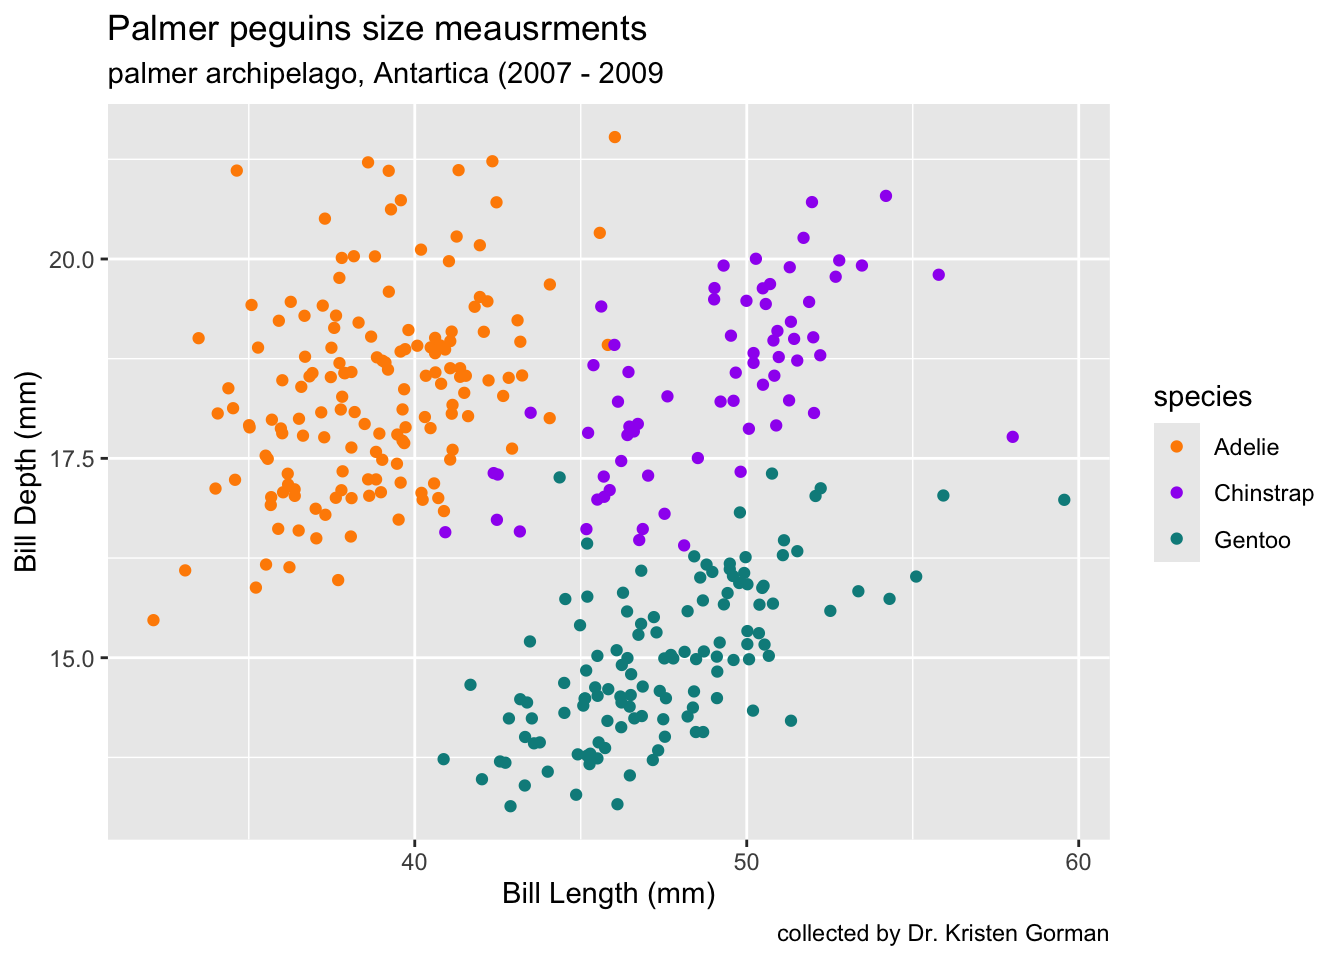
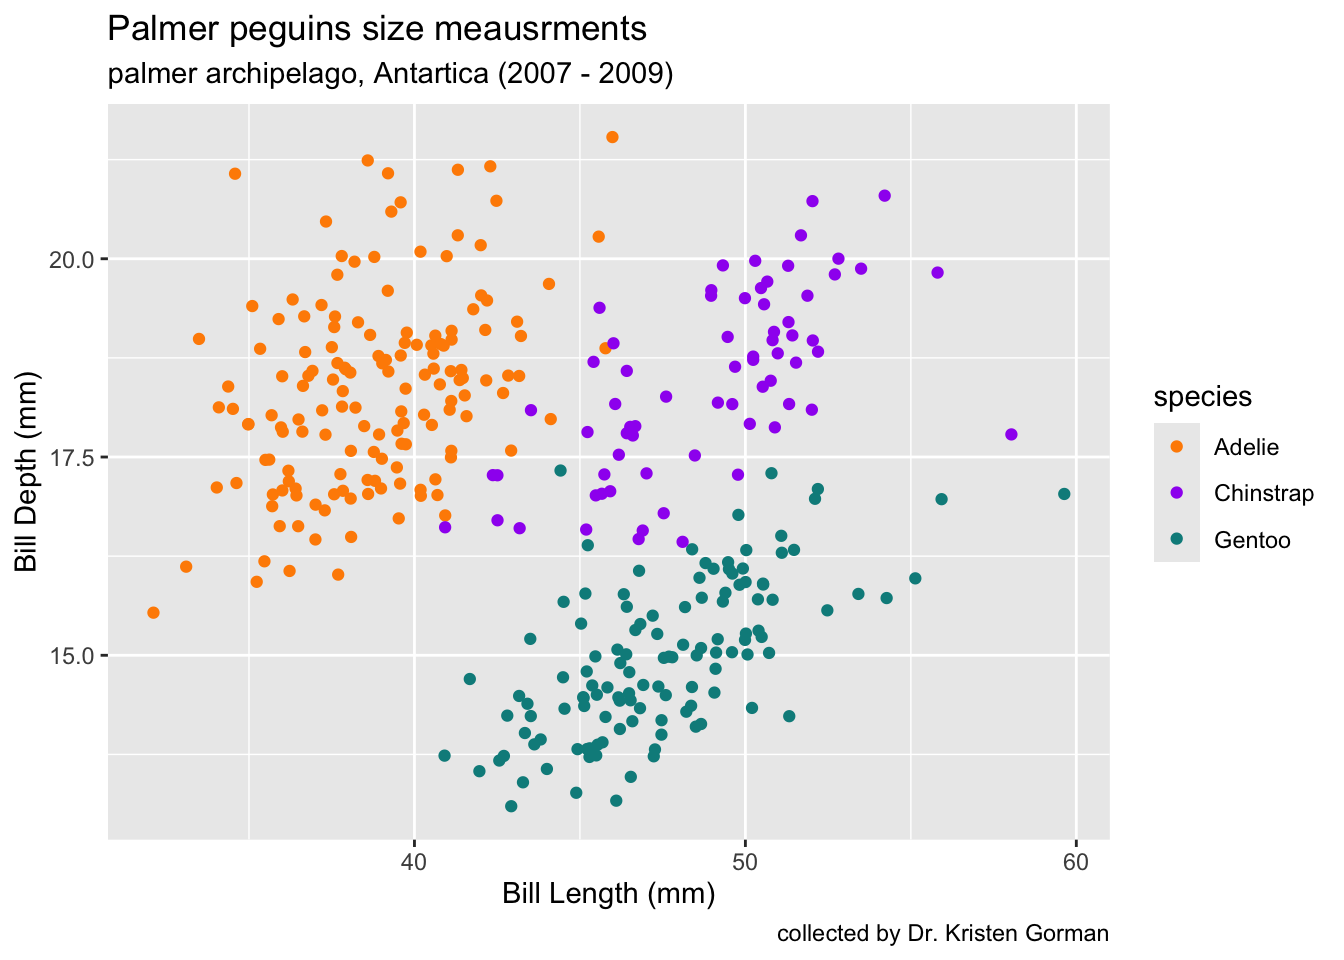
added a ")" after the years

diff --git a/eds212_day2_activities.html b/eds212_day2_activities.html
@@ -142,7 +142,7 @@ The following objects are masked from 'package:datasets':
 <div class="sourceCode cell-code" id="cb9"><pre class="sourceCode r code-with-copy"><code class="sourceCode r"><span id="cb9-1"><a href="#cb9-1" aria-hidden="true" tabindex="-1"></a><span class="fu">library</span>(tidyverse)</span>
 <span id="cb9-2"><a href="#cb9-2" aria-hidden="true" tabindex="-1"></a><span class="fu">library</span>(palmerpenguins)</span>
 <span id="cb9-3"><a href="#cb9-3" aria-hidden="true" tabindex="-1"></a><span class="fu">ggplot</span>(<span class="at">data =</span> penguins, <span class="fu">aes</span>(<span class="at">x =</span> bill_length_mm, <span class="at">y=</span> bill_depth_mm)) <span class="sc">+</span> <span class="fu">geom_jitter</span>(<span class="fu">aes</span>(<span class="at">color =</span> species))<span class="sc">+</span> <span class="fu">scale_color_manual</span>(<span class="at">values =</span> <span class="fu">c</span>(<span class="st">"darkorange"</span>, <span class="st">"purple"</span>, <span class="st">"cyan4"</span>)) <span class="sc">+</span> <span class="fu">labs</span>(<span class="at">y =</span> <span class="st">"Bill Depth (mm)"</span>, <span class="at">x =</span> <span class="st">"Bill Length (mm)"</span>, <span class="at">title =</span> <span class="st">"Palmer peguins size meausrments"</span>, </span>
-<span id="cb9-4"><a href="#cb9-4" aria-hidden="true" tabindex="-1"></a>       <span class="at">subtitle =</span> <span class="st">"palmer archipelago, Antartica (2007 - 2009"</span>, <span class="at">caption =</span> <span class="st">"collected by Dr. Kristen Gorman"</span>)</span></code><button title="Copy to Clipboard" class="code-copy-button"><i class="bi"></i></button></pre></div>
+<span id="cb9-4"><a href="#cb9-4" aria-hidden="true" tabindex="-1"></a>       <span class="at">subtitle =</span> <span class="st">"palmer archipelago, Antartica (2007 - 2009)"</span>, <span class="at">caption =</span> <span class="st">"collected by Dr. Kristen Gorman"</span>)</span></code><button title="Copy to Clipboard" class="code-copy-button"><i class="bi"></i></button></pre></div>
 <div class="cell-output cell-output-stderr">
 <pre><code>Warning: Removed 2 rows containing missing values or values outside the scale range
 (`geom_point()`).</code></pre>
